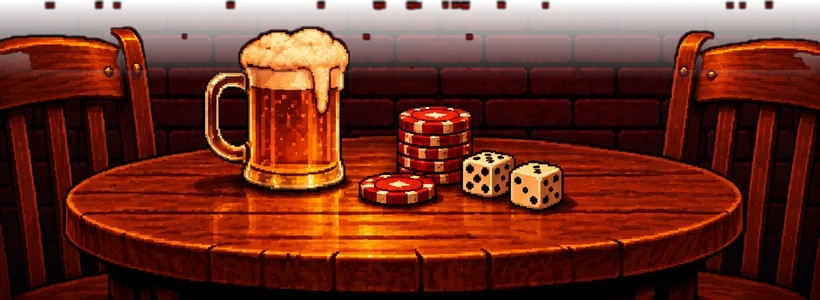
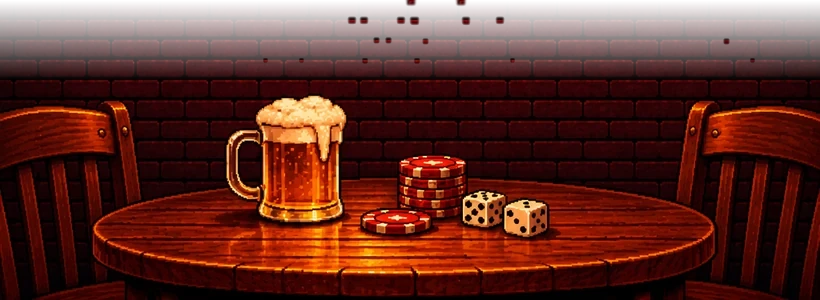
Tela inicial: segundo fundo, sem itens sobrepostos
Claude-Session: https://claude.ai/code/session_01En7euswnHof5YaDCcf2hee

diff --git a/index.html b/index.html
@@ -912,7 +912,7 @@ h1.tit{flex:1;min-width:0;height:36px;font-size:0;background:var(--placa) center
 #ini-cfg>*{visibility:hidden}#ini-cfg::before,#ini-cfg::after{display:none!important}
 
 #inicio:not(.cfg):not(.so-menu) .col{--gapb:clamp(14px,2.8vh,24px);gap:var(--gapb)!important;min-height:100dvh;box-sizing:border-box;justify-content:center;
-  padding:calc(min(100vw,520px)*.92) 0 calc(min(100vw,520px)*.28)!important}
+  padding:calc(min(100vw,520px)*.84) 0 calc(min(100vw,520px)*.28)!important}
 #inicio #ini-survival,#inicio #ini-cont,#inicio #ini-comecar,#inicio #ini-tuto,#inicio #ini-cfg{min-height:0!important;height:auto!important}
 @media (min-width:960px){#ini-survival .ini-txt small{font-size:15px!important}}
 url(assets/home/bt_noitada.png)!important;min-height:66px!important;height:66px;justify-content:center!important;gap:12px!important;padding:2px 12px!important}
